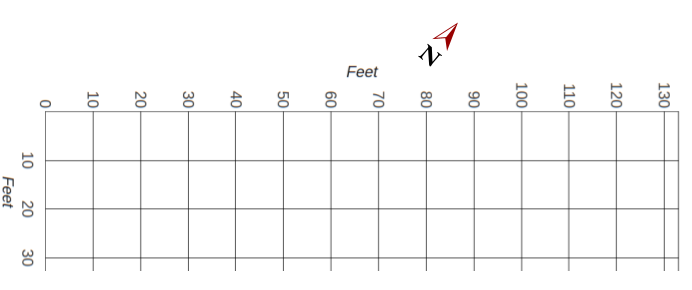
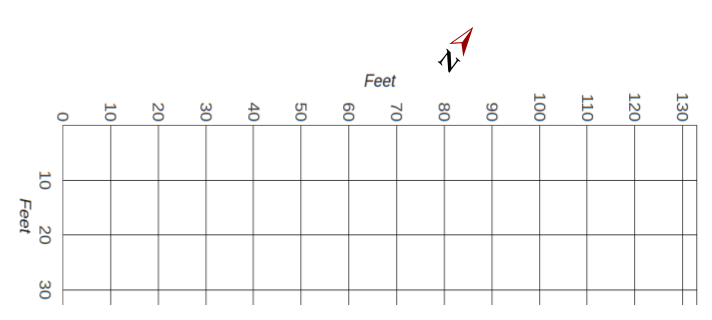
Site description

Changed region(s): [[0.0, 0.2793, 1.0, 0.9621], [0.6069, 0.0621, 0.6676, 0.2483], [0.4855, 0.2172, 0.5766, 0.2793]]

diff --git a/sunlight-sensor/Site.md b/sunlight-sensor/Site.md
@@ -1,0 +1,21 @@
+
+The test site is an approximately 133ft x 33ft lot, located in Madison, Wisconsin, mostly shaded by mature trees along the property lines.
+
+<figure>
+  <img src="images/yard.jpg" width="829" alt="Sunlight sensor test lot" />
+  <figcaption>Test lot for the Sunlight Sensor project</figcaption>
+</figure>
+
+I plotted out the test site in 10 foot increments a year ago for a different project.  The (0,0) position is in the southern corner of the lot.
+
+<figure>
+  <img src="images/backyard_grid_north_orientation.png" width="" alt="Yard grid shown in a north-relative orientation" />
+  <figcaption>North-relative orientation of the lot</figcaption>
+</figure>
+
+For the web application, the grid is rotated so that (0,0) is in the upper left, because it seemed like the landscape orientation would be preferable for the [app](https://sunlight.codepaw.com/).
+
+<figure>
+  <img src="images/backyard_grid_horizontal.png" width="" alt="Yard grid shown horizontally" />
+  <figcaption>Lot orientation for the web application</figcaption>
+</figure>

diff --git a/sunlight-sensor/README.md b/sunlight-sensor/README.md
@@ -16,6 +16,9 @@ In presenting this project, I'm hoping to convince you that:
 
 [Link to the Sunlight Sensor web application.](https://sunlight.codepaw.com/)
 
+At any given time, there may be 1-4 sensors running in the "backyard" sensor set.  I am still in the process of experimenting with data flow timing and power consumption in particular.  The application has test data under the "Test" sensor set, so you can preview it if the sensors are out for maintenance.
+
+
 ## Project Contents
 - [Source Code](#source-code)
 - [Web Application](#web-application)
@@ -28,6 +31,7 @@ In presenting this project, I'm hoping to convince you that:
 - Sensor Prototype Hardware Builds
   - [Sensor Hardware V1](SensorHardwareV1)
   - [Sensor Hardware V2](SensorHardwareV2)
+- [Test Site Description](Site.md)
 
 ## Source Code
 - [GitHub repository for webapp, Cloud Run functions, and Terraform files for Google Cloud Platform
